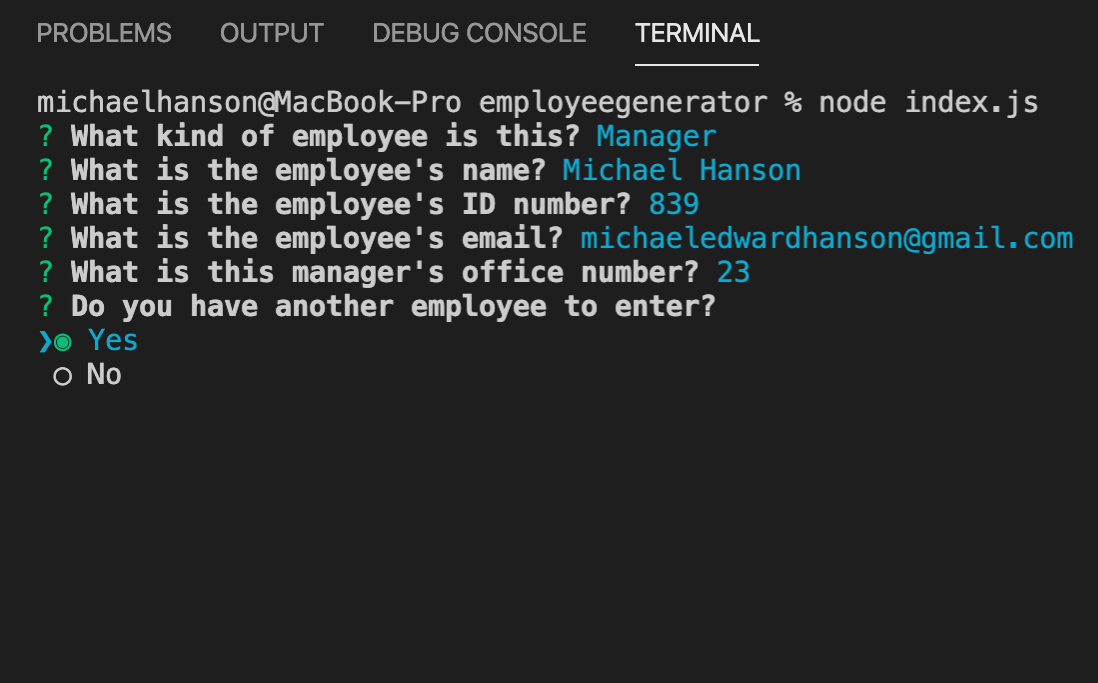
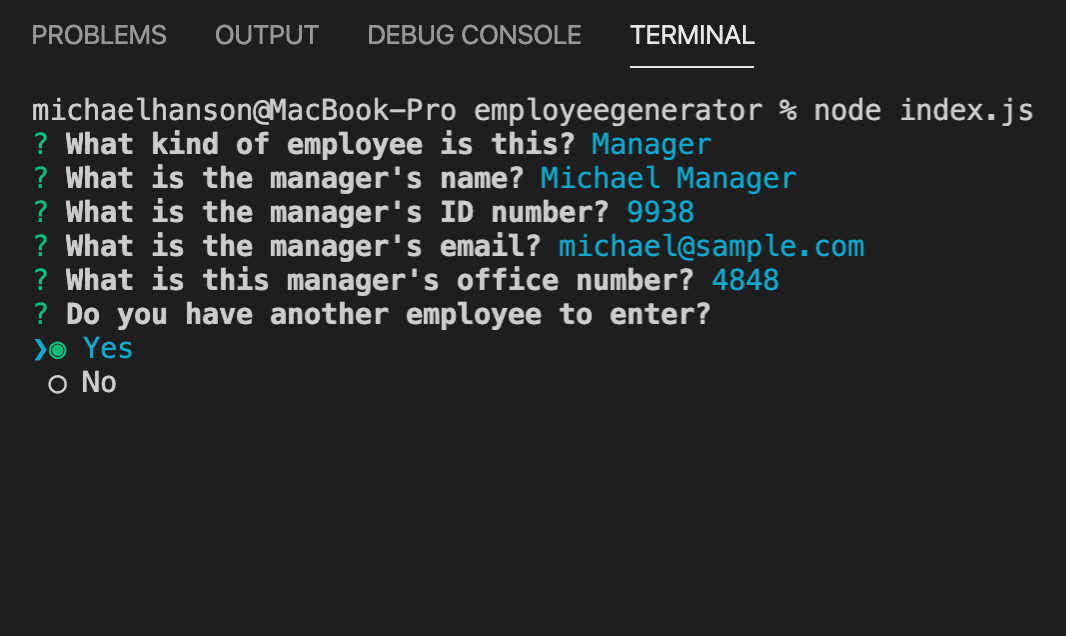
Changed screenshots for readme.

Changed region(s): [[0.031, 0.0299, 0.9906, 0.6274], [0.031, 0.0299, 0.1548, 0.0896], [0.1857, 0.0299, 0.3096, 0.0896]]

diff --git a/output/team.html b/output/team.html
@@ -23,7 +23,7 @@
     <nav class="background-image">
         <div class="header-background" id="navbar-heading-wrapper">
             <h1 class="text-center">My Team</h1>
-            <h2 class="text-center">My Great Team</h2>
+            <h2 class="text-center">My Great Company</h2>
         </div>
     </nav>
     
@@ -31,52 +31,52 @@
         <div class="row mx-auto justify-content-center">
             <div class="card mx-auto mb-3 employee-card">
     <div class="card-header">
-        <h2 class="card-title wide-space">Sample Manager</h2>
+        <h2 class="card-title wide-space">Michael Manager</h2>
         <h3 class="card-title wide-space"><i class="fas fa-mug-hot mr-2"></i>Manager</h3>
     </div>
     <div class="card-body">
         <ul class="list-group">
-            <li class="list-group-item wide-space"><i class="fas fa-id-card mr-2"></i>939</li>
-            <li class="list-group-item"><i class="fas fa-envelope mr-2"></i><a href="mailto:manager@sample.com">manager@sample.com</a></li>
-            <li class="list-group-item">Office #<span class="wide-space">2234</span></li>
+            <li class="list-group-item wide-space"><i class="fas fa-id-card mr-2"></i>9938</li>
+            <li class="list-group-item"><i class="fas fa-envelope mr-2"></i><a href="mailto:michael@sample.com">michael@sample.com</a></li>
+            <li class="list-group-item">Office #<span class="wide-space">4848</span></li>
         </ul>
     </div>
 </div>
 <div class="card mx-auto mb-3 employee-card">
     <div class="card-header">
-        <h2 class="card-title wide-space">Sample Engineer</h2>
+        <h2 class="card-title wide-space">Eddie Engineer</h2>
         <h3 class="card-title wide-space"><i class="fas fa-glasses mr-2"></i>Engineer</h3>
     </div>
     <div class="card-body">
         <ul class="list-group">
-            <li class="list-group-item wide-space"><i class="fas fa-id-card mr-2"></i>92929</li>
-            <li class="list-group-item"><i class="fas fa-envelope mr-2"></i><a href="mailto:sample@engineer.com">sample@engineer.com</a></li>
-            <li class="list-group-item"><i class="fab fa-github mr-2"></i><a href="https://github.com/EngineerGH" target="_blank" rel="noopener noreferrer">EngineerGH</a></li>
+            <li class="list-group-item wide-space"><i class="fas fa-id-card mr-2"></i>22234</li>
+            <li class="list-group-item"><i class="fas fa-envelope mr-2"></i><a href="mailto:engineer@sample.com">engineer@sample.com</a></li>
+            <li class="list-group-item"><i class="fab fa-github mr-2"></i><a href="https://github.com/mhans003" target="_blank" rel="noopener noreferrer">mhans003</a></li>
         </ul>
     </div>
 </div>
 <div class="card mx-auto mb-3 employee-card">
     <div class="card-header">
-        <h2 class="card-title wide-space">Sample Intern</h2>
+        <h2 class="card-title wide-space">Sally Intern</h2>
         <h3 class="card-title wide-space"><i class="fas fa-user-graduate mr-2"></i>Intern</h3>
     </div>
     <div class="card-body">
         <ul class="list-group">
-            <li class="list-group-item wide-space"><i class="fas fa-id-card mr-2"></i>23345</li>
-            <li class="list-group-item"><i class="fas fa-envelope mr-2"></i><a href="mailto:sample@intern.com">sample@intern.com</a></li>
-            <li class="list-group-item">School: <span class="wide-space">Intern School</span></li>
+            <li class="list-group-item wide-space"><i class="fas fa-id-card mr-2"></i>2939</li>
+            <li class="list-group-item"><i class="fas fa-envelope mr-2"></i><a href="mailto:sally@sample.com">sally@sample.com</a></li>
+            <li class="list-group-item">School: <span class="wide-space">Best University</span></li>
         </ul>
     </div>
 </div>
 <div class="card mx-auto mb-3 employee-card">
     <div class="card-header">
-        <h2 class="card-title wide-space">Sample Employee</h2>
+        <h2 class="card-title wide-space">Jim Employee</h2>
         <h3 class="card-title wide-space"><i class="fas fa-user-hard-hat mr-2"></i>Employee</h3>
     </div>
     <div class="card-body">
         <ul class="list-group">
             <li class="list-group-item wide-space"><i class="fas fa-id-card mr-2"></i>23455</li>
-            <li class="list-group-item"><i class="fas fa-envelope mr-2"></i><a href="mailto:employee@sample.com">employee@sample.com</a></li>
+            <li class="list-group-item"><i class="fas fa-envelope mr-2"></i><a href="mailto:jim@sample.com">jim@sample.com</a></li>
         </ul>
     </div>
 </div>

diff --git a/README.md b/README.md
@@ -5,7 +5,6 @@
 ![Screenshot of Employee Generator](./assets/images/screenshot2.jpg)
 ![Screenshot of Employee Generator](./assets/images/screenshot3.jpg)
 ![Screenshot of Employee Generator](./assets/images/screenshot4.jpg)
-![Screenshot of Employee Generator](./assets/images/screenshot5.jpg)
 
 ## Description 
 
